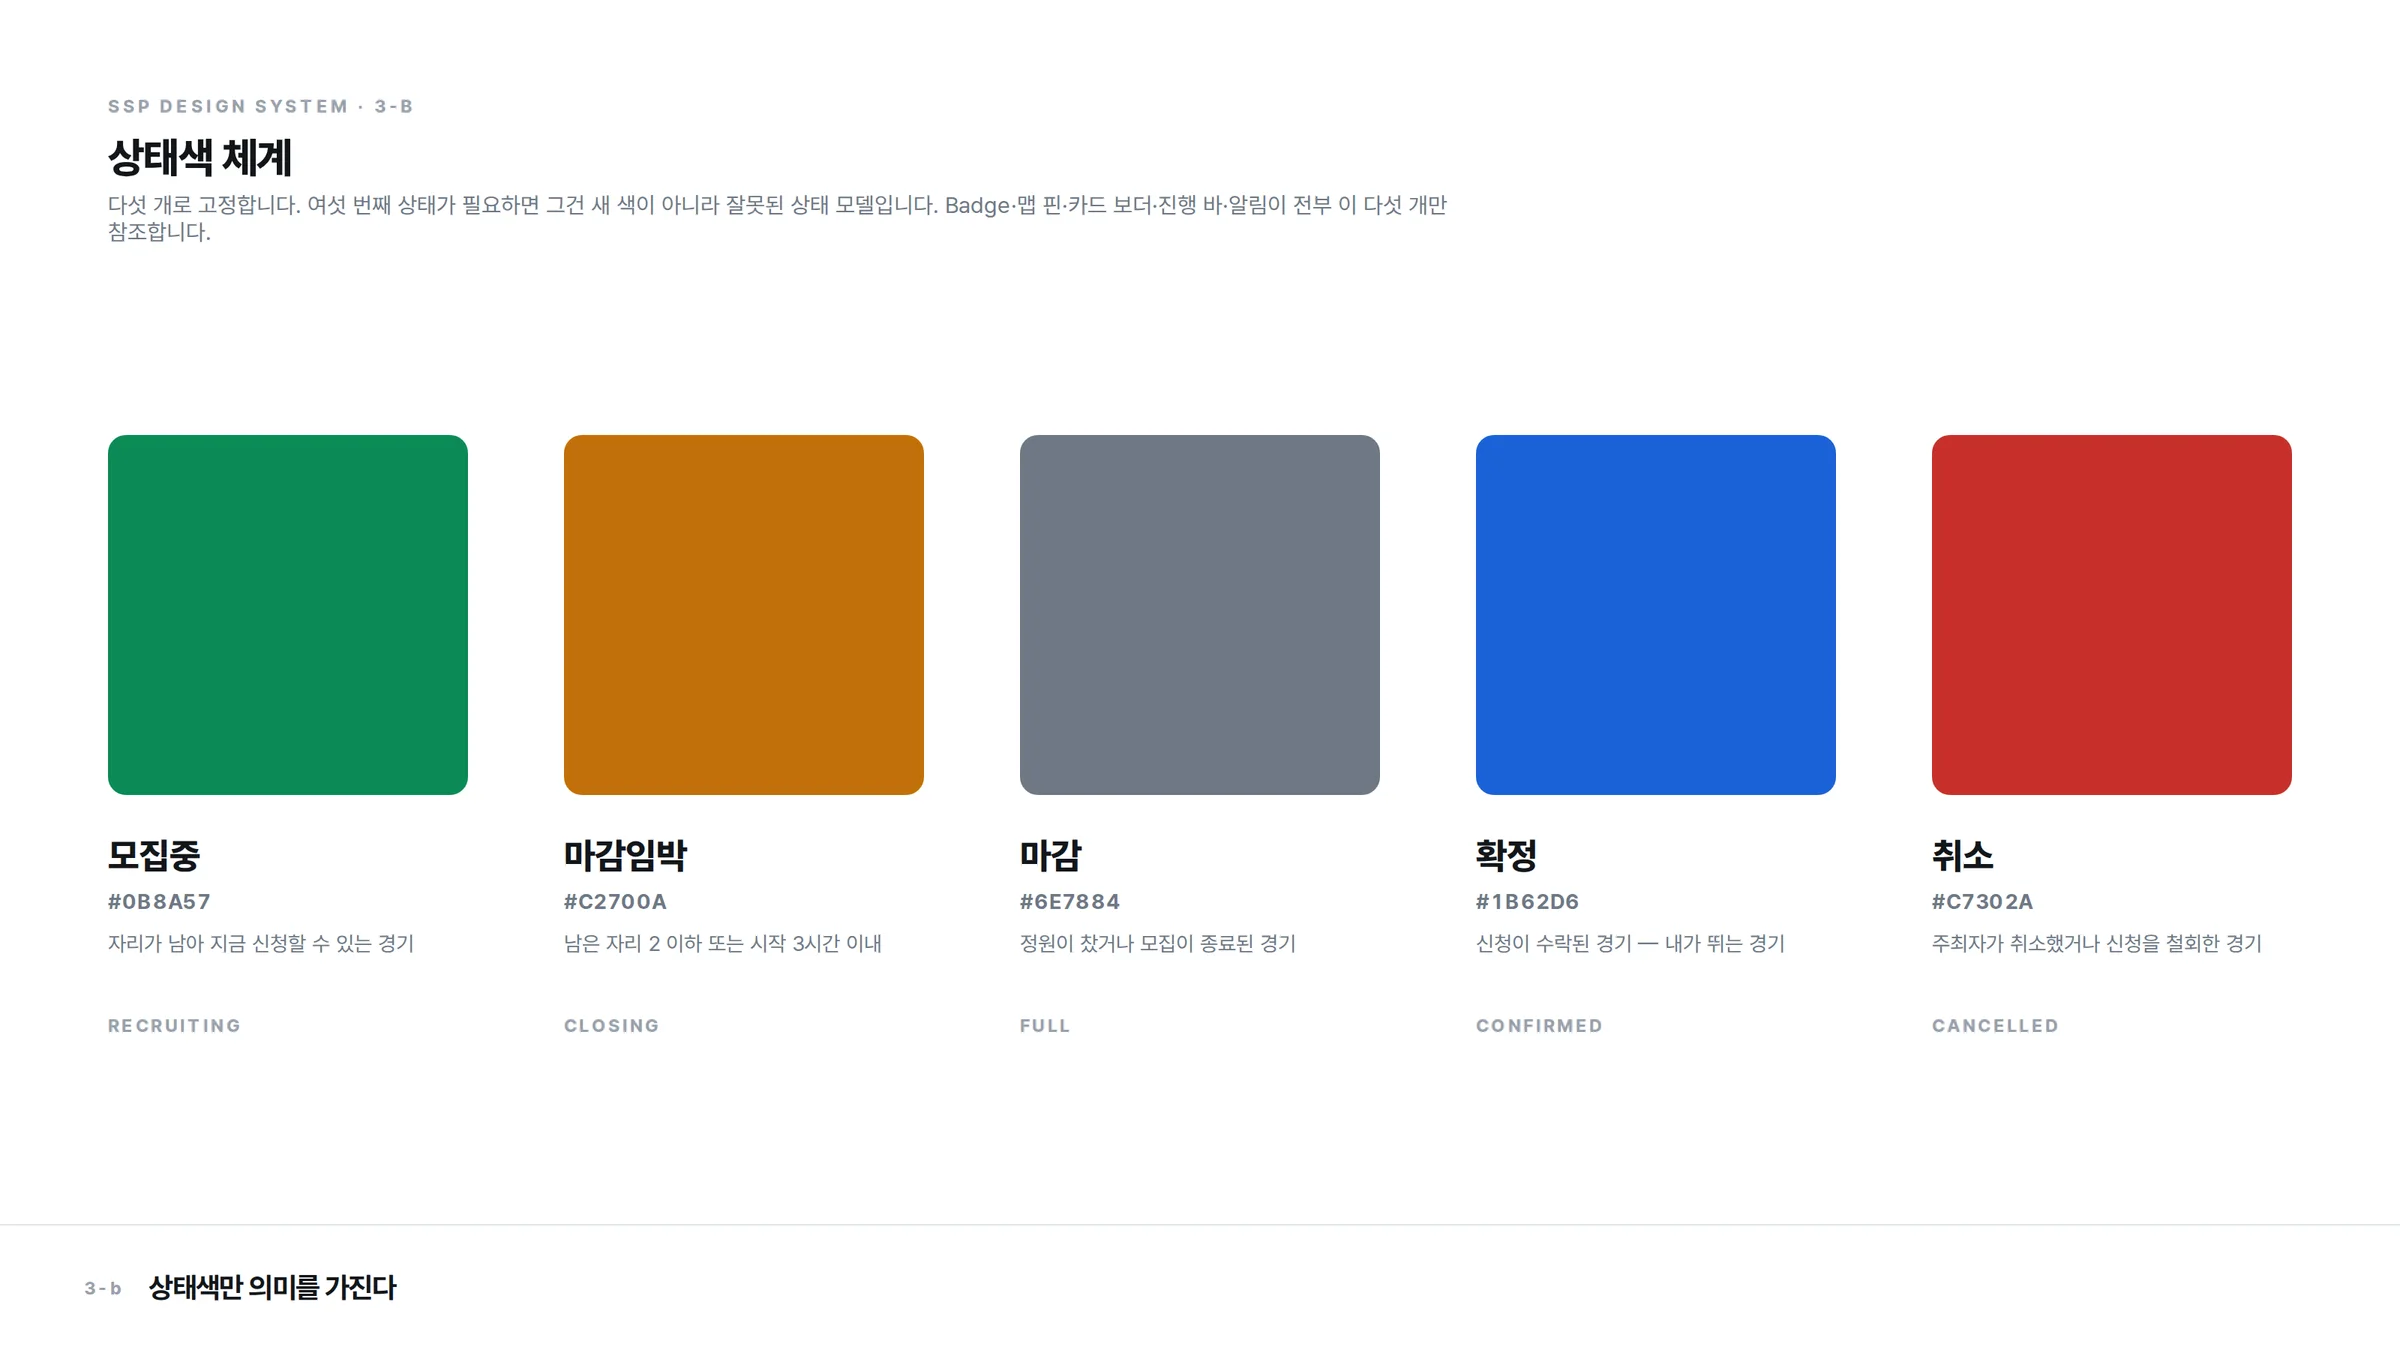
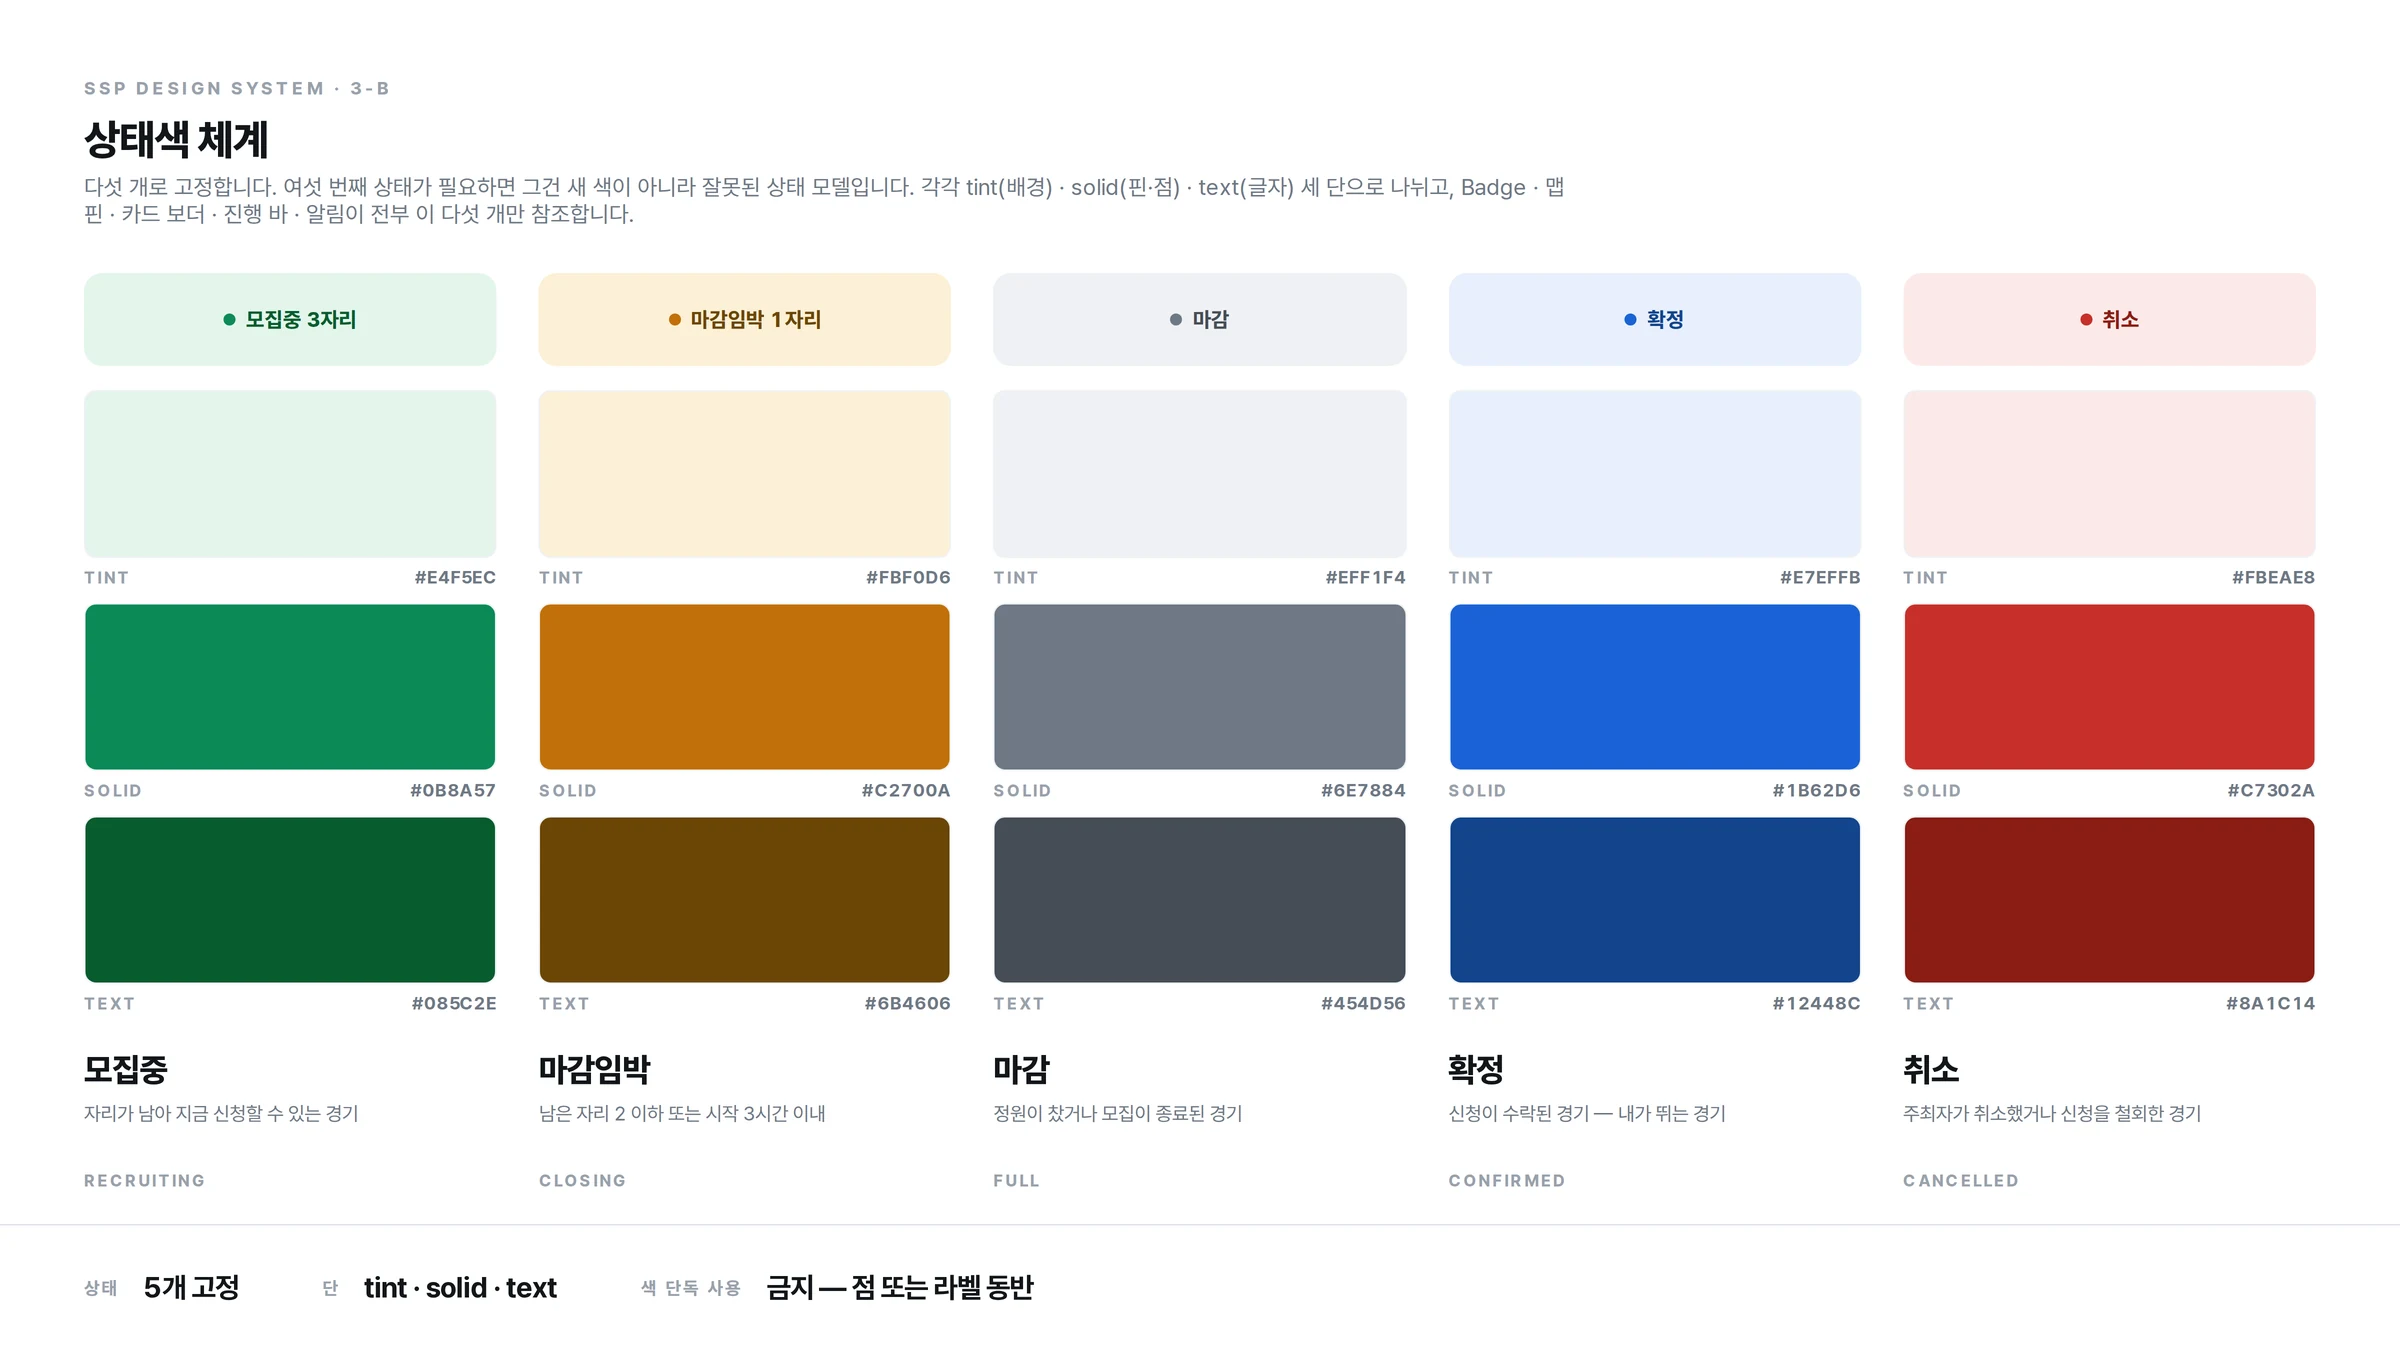
Land the real spec sheets and give the page a share card
Five images replace three placeholders and three older renders. 3-b now
carries all three steps per status rather than solid alone, and 4-a's
spacing scale reads space-2 through space-64. 4-b and 4-c fill the two
dashed slots, so the component inventory and the five assembled screens
are shown rather than promised.

The empty recording slot is gone rather than refilled — #leads and
#players already autoplay a prototype each, and the argument stands
without a third.

Two things were leaking. The status section's eyebrow was an editing note
to myself, in English, in both locales; a blanket rename when that
section moved had rewritten the eyebrow along with the comment above it.
It is [ 08 — Where It Stands ] again, matching every other eyebrow. And
the page had no og: tags at all, so a shared link produced no card: the
share card is a PNG because KakaoTalk regularly skips webp previews, and
og:image and og:url are absolute against the domain the portfolio links
to. A favicon lands with them.

Claude-Session: https://claude.ai/code/session_01LotrhPUcGNtdDJJLzdmwZ5

diff --git a/index.html b/index.html
@@ -5,6 +5,20 @@
   <meta name="viewport" content="width=device-width, initial-scale=1" />
   <title>Shoot Shoot Penguin — Case Study</title>
   <meta name="description" content="Shoot Shoot Penguin — a two-sided platform that predicts guest demand from attendance data, so amateur basketball organizers spend less time recruiting and more time playing." />
+
+  <!-- Share card. og:image and og:url have to be absolute; the domain is the
+       one the portfolio links to. PNG rather than webp — KakaoTalk regularly
+       skips webp previews. -->
+  <meta property="og:type" content="article" />
+  <meta property="og:site_name" content="wizzy" />
+  <meta property="og:title" content="Shoot Shoot Penguin — Design System Case Study" />
+  <meta property="og:description" content="A two-sided platform that predicts guest demand from attendance data. Building the design system: one colour rule, 53 locked colours, 22 components." />
+  <meta property="og:image" content="https://shoot-shoot-penguin.vercel.app/assets/img/ssp-og-1200x630.png" />
+  <meta property="og:image:width" content="1200" />
+  <meta property="og:image:height" content="630" />
+  <meta property="og:url" content="https://shoot-shoot-penguin.vercel.app/" />
+  <meta name="twitter:card" content="summary_large_image" />
+  <link rel="icon" href="assets/img/favicon.svg" />
   <link rel="preconnect" href="https://fonts.googleapis.com" />
   <link rel="preconnect" href="https://fonts.gstatic.com" crossorigin />
   <link href="https://fonts.googleapis.com/css2?family=Manrope:wght@400;500&family=Azeret+Mono:wght@400&display=swap" rel="stylesheet" />
@@ -369,14 +383,15 @@
           <p class="lead" data-lang-content="en">Density comes in two modes. Team leads hold a lot on one screen, so their side runs compact (controls at 44); players work the map with a thumb, so theirs runs comfortable (48). Control height and minimum touch target are bound to the same value, so setting the height carries the accessibility with it.</p>
         </div>
 
-        <!-- Slot for 4-b. Drop a src on the <img> and delete the label. -->
-        <div class="slot slot--16x10">
-          <img class="slot-img" alt="" width="2400" height="1500" />
-          <p class="slot-label">
-            <span data-lang-content="ko">[ 4-b · 부품 목록 22종 · 변형 64개 · 준비 중 ]</span>
-            <span data-lang-content="en">[ 4-b · 22 components · 64 variants · in progress ]</span>
-          </p>
-        </div>
+        <figure class="lightband-fig">
+          <img src="assets/img/ssp-ds-4b-components.webp"
+               width="2400" height="1500" loading="lazy" decoding="async"
+               alt="The SSP component inventory — twelve cells covering buttons, status badges, filter chips, inputs, game cards, list rows, map pins, search bar, prediction card, app header, bottom navigation and icons" />
+          <figcaption class="media-caption">
+            <span data-lang-content="ko">부품 목록 &mdash; 22개 컴포넌트가 이 시스템의 전부</span>
+            <span data-lang-content="en">The component inventory &mdash; 22 components, and that is the whole system</span>
+          </figcaption>
+        </figure>
 
         <div class="ds-prose">
           <p class="lead" data-lang-content="ko">컴포넌트는 22종입니다. 화면을 만들 때 여기 없는 것은 만들지 않습니다. 새 상태가 필요하면 그건 새 컴포넌트가 아니라 기존 것의 변형이거나, 잘못된 상태 모델입니다.</p>
@@ -417,24 +432,15 @@
       <div class="wrap">
         <p class="eyebrow">[ In Use ]</p>
 
-        <!-- Recording slot. Add a <source> and a poster file; the element,
-             its ratio and its frame are already the ones it will keep. -->
-        <div class="slot slot--16x9">
-          <video class="slot-video" poster="" muted loop playsinline preload="none"></video>
-          <p class="slot-label">
-            <span data-lang-content="ko">[ 실제 구동 화면 · 준비 중 ]</span>
-            <span data-lang-content="en">[ live screen recording · in progress ]</span>
-          </p>
-        </div>
-
-        <!-- Slot for 4-c. Drop a src on the <img> and delete the label. -->
-        <div class="slot slot--16x9">
-          <img class="slot-img" alt="" width="2400" height="1350" />
-          <p class="slot-label">
-            <span data-lang-content="ko">[ 4-c · 같은 부품으로 다섯 화면 · 준비 중 ]</span>
-            <span data-lang-content="en">[ 4-c · five screens from the same parts · in progress ]</span>
-          </p>
-        </div>
+        <figure class="lightband-fig">
+          <img src="assets/img/ssp-ds-4c-reuse.webp"
+               width="2400" height="1350" loading="lazy" decoding="async"
+               alt="Five SSP screens built from the same parts — home, attendance, guest prediction, map discovery and game detail" />
+          <figcaption class="media-caption">
+            <span data-lang-content="ko">같은 부품으로 다섯 화면 &mdash; 조립하는 데 새로 만든 컴포넌트는 0개</span>
+            <span data-lang-content="en">Five screens from the same parts &mdash; zero new components were needed</span>
+          </figcaption>
+        </figure>
 
         <div class="ds-prose">
           <p class="lead" data-lang-content="ko">팀 리드 콘솔과 플레이어 앱은 밀도만 다르고 부품은 같습니다. 홈 · 출석 현황 · 게스트 예측 · 지도 탐색 · 경기 상세를 조립하는 데 새로 만든 컴포넌트는 0개였습니다. 지도 화면도 예외가 아닙니다 &mdash; 검색바 · 칩 · 핀 · FAB 전부 앞 화면에서 쓰던 것입니다.</p>
@@ -969,7 +975,7 @@
          ============================================================ -->
     <section class="section status" id="status">
       <div class="wrap">
-        <p class="eyebrow">[ Where It Stands — the closing note, after the product walkthrough ]</p>
+        <p class="eyebrow">[ 08 — Where It Stands ]</p>
 
         <h2 class="h2" data-lang-content="ko">개발 진행 중 — <span class="acc">측정할 준비</span>까지 설계했습니다</h2>
         <h2 class="h2" data-lang-content="en">In development — <span class="acc">designed to be measured</span></h2>
